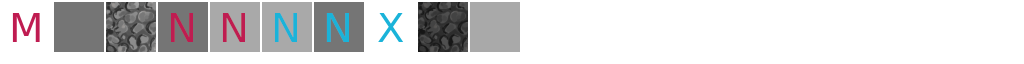
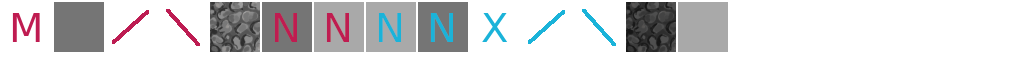
Mirrors display implemented

diff --git a/core/src/com/bksgames/game/viewmodels/DisplayableToImage.java b/core/src/com/bksgames/game/viewmodels/DisplayableToImage.java
@@ -23,5 +23,11 @@ public class DisplayableToImage {
 
         mapping.put(Displayable.RED_MINION, new DisplayInfo("RedMinion", "RedMinion", "minions"));
         mapping.put(Displayable.BLUE_MINION, new DisplayInfo("BlueMinion", "BlueMinion", "minions"));
+
+        mapping.put(Displayable.BLUE_MIRROR_SLASH, new DisplayInfo("BlueMirrorSlash", "BlueMirrorSlash", "mirrors"));
+        mapping.put(Displayable.BLUE_MIRROR_BACKSLASH, new DisplayInfo("BlueMirrorBackSlash", "BlueMirrorBackSlash", "mirrors"));
+
+        mapping.put(Displayable.RED_MIRROR_SLASH, new DisplayInfo("RedMirrorSlash", "RedMirrorSlash", "mirrors"));
+        mapping.put(Displayable.RED_MIRROR_BACKSLASH, new DisplayInfo("RedMirrorBackSlash", "RedMirrorBackSlash", "mirrors"));
     }
 }

diff --git a/core/src/com/bksgames/game/views/gameScreen/MazeMapFactory.java b/core/src/com/bksgames/game/views/gameScreen/MazeMapFactory.java
@@ -20,8 +20,12 @@ public class MazeMapFactory {
 		TiledMapTileLayer wallsAndNexuses = new TiledMapTileLayer(3 * maxBoardWidth, 3 * maxBoardHeight, tilePixelSize, tilePixelSize);
 		wallsAndNexuses.setName("wallsAndNexuses");
 
+		TiledMapTileLayer mirrors = new TiledMapTileLayer(3 * maxBoardWidth, 3 * maxBoardHeight, tilePixelSize, tilePixelSize);
+		mirrors.setName("mirrors");
+
 		map.getLayers().add(tunnels);
 		map.getLayers().add(wallsAndNexuses);
+		map.getLayers().add(mirrors);
 		map.getLayers().add(minions);
 
 		return map;

diff --git a/core/src/com/bksgames/game/views/gameScreen/legalMovesHandling/MainTableFactory.java b/core/src/com/bksgames/game/views/gameScreen/legalMovesHandling/MainTableFactory.java
@@ -16,7 +16,7 @@ public class MainTableFactory {
 	static final int mainTableHeight = 200;
 	static final int arrowButtonSize = 75;
 	static final int actionsMenuWidth = 350;
-	static final int actionsMenuHeight = 75;
+	static final int actionsMenuHeight = 100;
 	static final int actionButtonSize = 75;
 
 	static final int distanceToAdjacentButton = 10;

diff --git a/core/src/com/bksgames/game/globalClasses/enums/Displayable.java b/core/src/com/bksgames/game/globalClasses/enums/Displayable.java
@@ -1,5 +1,7 @@
 package com.bksgames.game.globalClasses.enums;
 
 public enum Displayable {
-    WALL, RED_NEXUS, BLUE_NEXUS, TUNNEL, RED_MINION, BLUE_MINION, RED_MIRROR, BLUE_MIRROR
+    WALL, RED_NEXUS, BLUE_NEXUS, TUNNEL, RED_MINION, BLUE_MINION,
+    RED_MIRROR_SLASH, RED_MIRROR_BACKSLASH,
+    BLUE_MIRROR_SLASH, BLUE_MIRROR_BACKSLASH
 }
